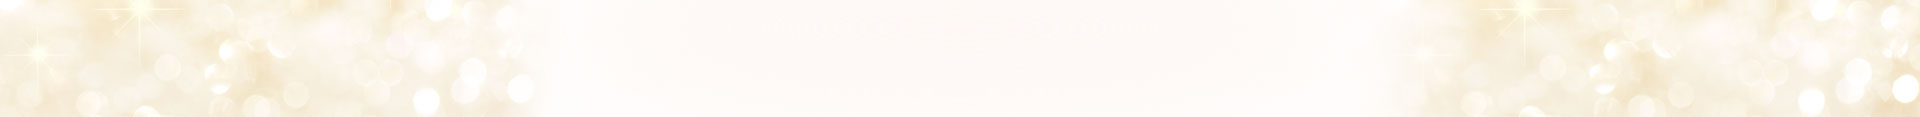
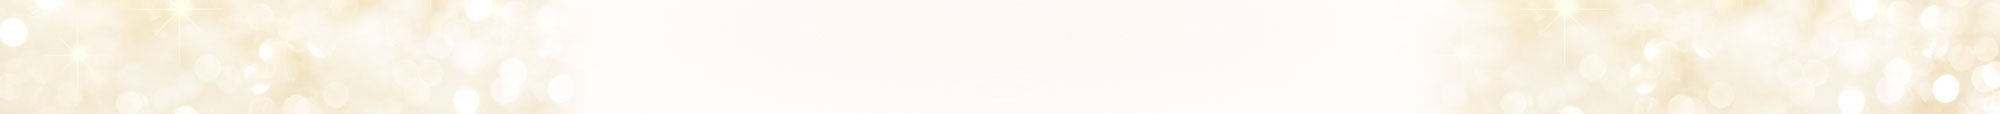
working

diff --git a/index.html b/index.html
@@ -84,7 +84,7 @@
 						  <h2>Заголовок слайда1</h2>
 						</div>
 						<a class="see-detail" href="#" title="Подробнее">Хочу подробнее</a>
-						<div style="background: rgba(0, 0, 0, 0) url(/images/slide-1.jpg) no-repeat scroll top center / contain ;height: 100%;width: 100%;"> </div>
+						<div style="background: rgba(0, 0, 0, 0) url(/images/slide-1.jpg) no-repeat scroll top center / cover ;height: 100%;width: 100%;"> </div>
 					  </div>
 
 					  <div class="swiper-slide">
@@ -92,7 +92,7 @@
 						  <h2>Заголовок слайда1</h2>
 						</div>
 						<a class="see-detail" href="#" title="Подробнее">Хочу подробнее</a>
-						<div style="background: rgba(0, 0, 0, 0) url(/images/slide-1.jpg) no-repeat scroll top center / contain ;height: 100%;width: 100%;"> </div>
+						<div style="background: rgba(0, 0, 0, 0) url(/images/slide-1.jpg) no-repeat scroll top center / cover ;height: 100%;width: 100%;"> </div>
 					  </div>
 
 				  </div>
@@ -186,5 +186,61 @@
 		</div>
 	</div>
 	<!--end component order-list -->
+	
+	<!--start component last photo-->
+	<div class="container-fluid last-photo-wrapper">
+		<div class="container">
+			<div class="row">
+				<div class="col-md-12">
+					<h1 class="order-header">Самые свежие фото с мероприятий</h1>
+				</div>
+			</div>
+			<div class="row">
+				<!--start foreach $arResult-->
+				<div class="col-lg-1-5 col-md-3 col-sm-4 col-xs-6 col-xsm">
+					<div class="last-photo-cell">
+						<a href="#" title="#"><img src="/images/photo.jpg" alt="#"></a>
+					</div>
+				</div>
+				<div class="col-lg-1-5 col-md-3 col-sm-4 col-xs-6 col-xsm">
+					<div class="last-photo-cell">
+						<a href="#" title="#"><img src="/images/photo.jpg" alt="#"></a>
+					</div>
+				</div>
+				<div class="col-lg-1-5 col-md-3 col-sm-4 col-xs-6 col-xsm">
+					<div class="last-photo-cell">
+						<a href="#" title="#"><img src="/images/photo.jpg" alt="#"></a>
+					</div>
+				</div>
+				<div class="col-lg-1-5 col-md-3 col-sm-4 col-xs-6 col-xsm">
+					<div class="last-photo-cell">
+						<a href="#" title="#"><img src="/images/photo.jpg" alt="#"></a>
+					</div>
+				</div>
+				<div class="col-lg-1-5 col-md-3 col-sm-4 col-xs-6 col-xsm">
+					<div class="last-photo-cell">
+						<a href="#" title="#"><img src="/images/photo.jpg" alt="#"></a>
+					</div>
+				</div>
+				<div class="col-lg-1-5 col-md-3 col-sm-4 col-xs-6 col-xsm">
+					<div class="last-photo-cell">
+						<a href="#" title="#"><img src="/images/photo.jpg" alt="#"></a>
+					</div>
+				</div>
+				<div class="col-lg-1-5 col-md-3 col-sm-4 col-xs-6 col-xsm">
+					<div class="last-photo-cell">
+						<a href="#" title="#"><img src="/images/photo.jpg" alt="#"></a>
+					</div>
+				</div>
+				<div class="col-lg-1-5 col-md-3 col-sm-4 col-xs-6 col-xsm">
+					<div class="last-photo-cell">
+						<a href="#" title="#"><img src="/images/photo.jpg" alt="#"></a>
+					</div>
+				</div>
+				<!--end foreach-->
+			</div>
+		</div>
+	</div>
+	<!--end compnent last photo-->
   </body>
 </html>

diff --git a/css/style.css b/css/style.css
@@ -7,6 +7,7 @@ body{
     background-position: center center;
     background-repeat:  no-repeat;
 	height:117px;
+	background-size: cover;
 }
 .slogan {
     padding-top: 20px;
@@ -266,30 +267,6 @@ body{
 }
 /* This button was generated using CSSButtonGenerator.com */
 /**end slider component**/
-
-/**start component order-list on main page**/
-.order-wrapper{
-	background-image:url('/images/order-bg.png');
-}
-.order-wrapper .row {
-    width: 100%;
-}
-.order-list-wrapper{
-	text-align:center;
-}
-.order-button-wrapper{
-	margin:0px;
-	padding:0px;
-}
-.order-button-wrapper li{
-	display:inline-block;
-}
-.order-list-cell img{
-	width:100%;
-}
-.order-list-cell{
-	margin-bottom:40px;
-}
 .order-header{
 	display: inline-block;
     font-family: "Roboto Slab",serif;
@@ -320,6 +297,29 @@ body{
     position: absolute;
     top: 50%;
     width: 40px;
+}
+/**start component order-list on main page**/
+.order-wrapper{
+	background-image:url('/images/order-bg.png');
+}
+.order-wrapper .row {
+    width: 100%;
+}
+.order-list-wrapper{
+	text-align:center;
+}
+.order-button-wrapper{
+	margin:0px;
+	padding:0px;
+}
+.order-button-wrapper li{
+	display:inline-block;
+}
+.order-list-cell img{
+	width:100%;
+}
+.order-list-cell{
+	margin-bottom:40px;
 }
 .order-wrapper{
 	text-align:center;
@@ -400,6 +400,20 @@ body{
 }
 /**end component order-list on main page**/
 
+/**start component last photo on main page**/
+.last-photo-wrapper{
+	text-align:center;
+}
+.last-photo-cell {
+    margin-bottom: 30px;
+}
+.last-photo-wrapper {
+	background-image: url("/images/border-photo.png"), url("/images/texture.jpg");
+    background-position: center bottom;
+    background-repeat: repeat-x, repeat;
+  
+}
+/**end componen last photo on main page**/
 @media (max-width: 1200px) {
 	.top-menu li {
 		padding-left: 10px;
@@ -502,6 +516,7 @@ body{
 	}
 }
 @media (max-width: 768px) {
+
 	.see-detail{
 		height: 35px;
 		line-height: 36px;
@@ -545,6 +560,9 @@ body{
 	}
 }
 @media (max-width: 480px) {
+	.last-photo-cell img{
+		width:100%;
+	}
 	.slide-head{
 		display:none;
 	}
@@ -577,6 +595,57 @@ body{
   }
   .order-list-cell img{
 	width:100%;
+  }
+}
+
+
+/*******extension bootsrap css********/
+.col-xs-1-5,
+.col-sm-1-5,
+.col-md-1-5,
+.col-lg-1-5 {
+  position: relative;
+  min-height: 1px;
+  padding-right: 10px;
+  padding-left: 10px;
+}
+ 
+.col-xs-1-5 {
+  width: 20%;
+  float: left;
+}
+ 
+@media (min-width: 768px) {
+  .col-sm-1-5 {
+    width: 20%;
+    float: left;
+  }
+}
+ 
+@media (min-width: 992px) {
+  .col-md-1-5 {
+    width: 20%;
+    float: left;
+  }
+}
+ 
+@media (min-width: 1200px) {
+  .col-lg-1-5 {
+    width: 20%;
+    float: left;
+  }
+}
+
+.col-xs-s-2 {
+  position: relative;
+  min-height: 1px;
+  padding-right: 5px;
+  padding-left: 5px;
+}
+@media (min-width: 480px) and (max-width: 768px) {
+  .col-xs-s-2 {
+    width: 33.3%;
+    float: left;
   }
 }
 
